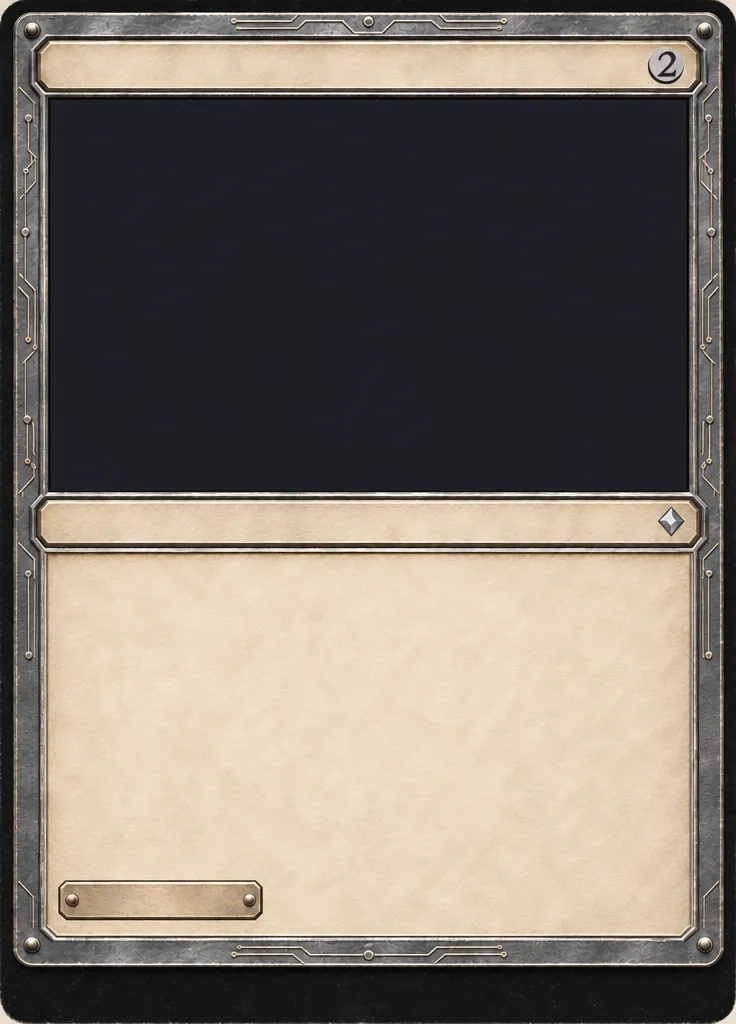
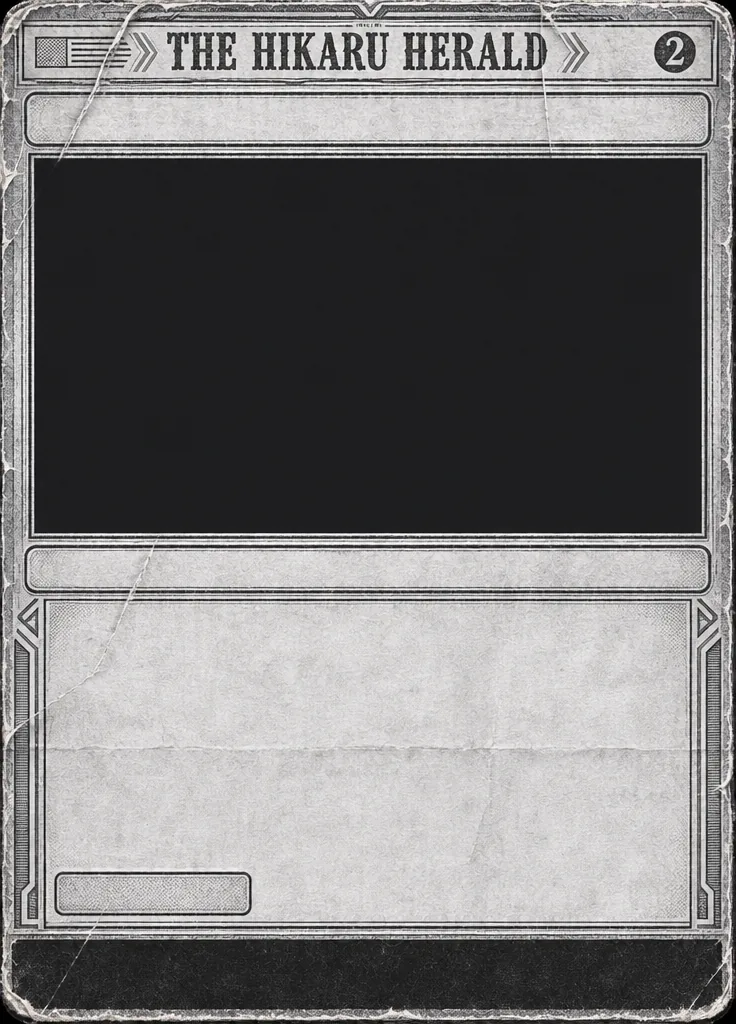
feat: newspaper showcase frame on every card, Hikaru drawn with natural proportions
This commit was detailed with Claude (Claude Code). Piece by piece:

- site/img/frame-*.webp: the seven Magic frames redone in the vintage "breaking
  news" newspaper showcase style, after seven real Magic cards in that style that
  Hikaru sent as references. Higgsfield (GPT Image 2.6) made Hikaru's frame from
  the blank template and the references, then each project frame from its own
  template, Hikaru's frame and one or two references of its colour: gold, red,
  green, black, ivory, slate blue and silver. The masthead reads "The Hikaru
  Herald", an original name, with the card's mana cost on its right.
- site/img/hikaru-art.webp, assets/hikaru-card-art.png: Hikaru as an ink
  illustration in the same newspaper style, gold duotone, arms crossed on a Sao
  Paulo street, about seven and a half heads tall, so the head is no longer
  oversized. Made from his own photos.
- site/styles.css: every card's boxes measured again for the new layout
  (headline bar under the masthead, wider art window, collector strip); the
  name is centred, upper case, in a slab serif like a newspaper headline;
  Hikaru's P/T box moved; his text is back to 12px since the box has more room;
  the project pictures print as a duotone in the card's colour (--tint).
- design/magic-frame/template.py: draws the newspaper layout.
- prompts.md, ADR 0001, GLOSSARY, README: the new style, its job ids and why the
  text stayed live.
[…]

diff --git a/site/styles.css b/site/styles.css
@@ -431,33 +431,34 @@ html.tcg .sheen {
 }
 html.tcg .tcg-card.dragging { cursor: grabbing; -webkit-user-select: none; user-select: none; }
 
-/* ---- Magic frame (docs/adr/0001): Hikaru's card and the project cards in TCG mode. The frame is an image made from
+/* ---- Magic frame (docs/adr/0001): Hikaru's card and the project cards in TCG mode. The frame (a newspaper showcase) is an image made from
    design/magic-frame; the live text sits in its boxes. Each slot gives its frame's boxes, measured in card px (460x642):
-   --t0/--t1 title bar, --tr where the mana gems start, --al/--a0/--ar/--a1 art window, --y0/--y1/--yr type line, --x text
+   --t0/--t1 title bar, --tr the headline bar's right end, --al/--a0/--ar/--a1 art window, --y0/--y1/--yr type line, --x text
    box top, --pb/--bh plaque row, --bw plaque width, --b1..--b4 plaque lefts, --c0/--c1 collector line ---- */
-[data-card="hikaru"] { --t0: 22px; --t1: 53px; --tr: 315px; --al: 25px; --a0: 60px; --ar: 435px; --a1: 349px; --y0: 358px; --y1: 385px; --yr: 420px; --x: 393px; --pb: 544px; --bh: 27px; --bw: 76px; --b1: 34px; --b2: 118px; --b3: 202px; --b4: 283px; --c0: 607px; --c1: 642px; --no: 'HKR • 0001'; --frame: url('img/frame-hikaru.webp'); }
-[data-card="portfolio"] { --t0: 25px; --t1: 55px; --tr: 364px; --al: 28px; --a0: 61px; --ar: 433px; --a1: 350px; --y0: 358px; --y1: 384px; --yr: 406px; --x: 394px; --pb: 545px; --bh: 26px; --bw: 124px; --b1: 34px; --b2: 166px; --c0: 607px; --c1: 639px; --no: 'HKR • 0002'; --frame: url('img/frame-portfolio.webp'); }
-[data-card="aquasense"] { --t0: 23px; --t1: 50px; --tr: 391px; --al: 24px; --a0: 57px; --ar: 436px; --a1: 352px; --y0: 361px; --y1: 383px; --yr: 380px; --x: 394px; --pb: 555px; --bh: 27px; --bw: 131px; --b1: 33px; --b2: 170px; --c0: 606px; --c1: 639px; --no: 'HKR • 0003'; --frame: url('img/frame-aquasense.webp'); }
-[data-card="ecos"] { --t0: 28px; --t1: 56px; --tr: 408px; --al: 29px; --a0: 61px; --ar: 431px; --a1: 331px; --y0: 339px; --y1: 366px; --yr: 411px; --x: 373px; --pb: 553px; --bh: 26px; --bw: 127px; --b1: 34px; --c0: 602px; --c1: 638px; --no: 'HKR • 0004'; --frame: url('img/frame-ecos.webp'); }
-[data-card="ferrovia"] { --t0: 26px; --t1: 53px; --tr: 383px; --al: 26px; --a0: 60px; --ar: 434px; --a1: 315px; --y0: 322px; --y1: 347px; --yr: 413px; --x: 357px; --pb: 541px; --bh: 28px; --bw: 127px; --b1: 33px; --c0: 604px; --c1: 640px; --no: 'HKR • 0005'; --frame: url('img/frame-ferrovia.webp'); }
-[data-card="fabio"] { --t0: 28px; --t1: 55px; --tr: 387px; --al: 28px; --a0: 62px; --ar: 432px; --a1: 351px; --y0: 359px; --y1: 383px; --yr: 417px; --x: 392px; --pb: 557px; --bh: 23px; --bw: 127px; --b1: 36px; --c0: 603px; --c1: 640px; --no: 'HKR • 0006'; --frame: url('img/frame-fabio.webp'); }
-[data-card="cofre"] { --t0: 26px; --t1: 55px; --tr: 405px; --al: 31px; --a0: 60px; --ar: 431px; --a1: 308px; --y0: 314px; --y1: 340px; --yr: 412px; --x: 348px; --pb: 552px; --bh: 24px; --bw: 127px; --b1: 37px; --c0: 606px; --c1: 641px; --no: 'HKR • 0007'; --frame: url('img/frame-cofre.webp'); }
+[data-card="hikaru"] { --t0: 60px; --t1: 92px; --tr: 438px; --al: 23px; --a0: 101px; --ar: 436px; --a1: 333px; --y0: 344px; --y1: 370px; --yr: 430px; --x: 377px; --pb: 547px; --bh: 25px; --bw: 71px; --b1: 35px; --b2: 113px; --b3: 193px; --b4: 273px; --c0: 590px; --c1: 634px; --no: 'HKR • 0001'; --frame: url('img/frame-hikaru.webp'); }
+[data-card="portfolio"] { --tint: #d9826a; --t0: 61px; --t1: 91px; --tr: 438px; --al: 23px; --a0: 100px; --ar: 436px; --a1: 334px; --y0: 344px; --y1: 370px; --yr: 430px; --x: 377px; --pb: 547px; --bh: 25px; --bw: 118px; --b1: 34px; --b2: 160px; --c0: 590px; --c1: 632px; --no: 'HKR • 0002'; --frame: url('img/frame-portfolio.webp'); }
+[data-card="aquasense"] { --tint: #a9c27a; --t0: 61px; --t1: 90px; --tr: 438px; --al: 22px; --a0: 102px; --ar: 436px; --a1: 332px; --y0: 342px; --y1: 369px; --yr: 430px; --x: 377px; --pb: 548px; --bh: 24px; --bw: 121px; --b1: 35px; --b2: 166px; --c0: 590px; --c1: 632px; --no: 'HKR • 0003'; --frame: url('img/frame-aquasense.webp'); }
+[data-card="ecos"] { --tint: #c9c9c9; --t0: 63px; --t1: 92px; --tr: 438px; --al: 23px; --a0: 103px; --ar: 436px; --a1: 335px; --y0: 346px; --y1: 372px; --yr: 430px; --x: 381px; --pb: 556px; --bh: 24px; --bw: 129px; --b1: 35px; --c0: 595px; --c1: 633px; --no: 'HKR • 0004'; --frame: url('img/frame-ecos.webp'); }
+[data-card="ferrovia"] { --tint: #e0b48f; --t0: 61px; --t1: 90px; --tr: 438px; --al: 24px; --a0: 100px; --ar: 434px; --a1: 326px; --y0: 335px; --y1: 361px; --yr: 430px; --x: 372px; --pb: 552px; --bh: 26px; --bw: 121px; --b1: 35px; --c0: 595px; --c1: 634px; --no: 'HKR • 0005'; --frame: url('img/frame-ferrovia.webp'); }
+[data-card="fabio"] { --tint: #8fa9cf; --t0: 62px; --t1: 91px; --tr: 438px; --al: 26px; --a0: 101px; --ar: 433px; --a1: 333px; --y0: 344px; --y1: 369px; --yr: 430px; --x: 377px; --pb: 549px; --bh: 24px; --bw: 123px; --b1: 36px; --c0: 591px; --c1: 631px; --no: 'HKR • 0006'; --frame: url('img/frame-fabio.webp'); }
+[data-card="cofre"] { --tint: #bdbdbd; --t0: 60px; --t1: 90px; --tr: 438px; --al: 22px; --a0: 100px; --ar: 437px; --a1: 333px; --y0: 344px; --y1: 370px; --yr: 430px; --x: 377px; --pb: 547px; --bh: 26px; --bw: 121px; --b1: 35px; --c0: 590px; --c1: 632px; --no: 'HKR • 0007'; --frame: url('img/frame-cofre.webp'); }
 
 /* the text box's content flows inside the card's padding (the text box minus the plaque row); everything else is placed */
 html.tcg .card.mf {
   --fs: 12.5px; --ink: #241a10; --serif: 'Palatino Linotype', 'Book Antiqua', Palatino, 'Noto Serif', Georgia, serif;
+  --slab: Rockwell, 'Rockwell Nova', 'Roboto Slab', 'Courier New', Georgia, serif;
   padding: calc(var(--x) + 8px) 36px calc(642px - var(--pb) + 6px);
   gap: 5px; background: #111 var(--frame) 0 0 / 100% 100% no-repeat;
   color: var(--ink); font-family: var(--serif);
 }
-html.tcg:lang(ja) .card.mf { --serif: 'Yu Mincho', 'YuMincho', 'Hiragino Mincho ProN', 'Noto Serif JP', serif; }
+html.tcg:lang(ja) .card.mf { --serif: 'Yu Mincho', 'YuMincho', 'Hiragino Mincho ProN', 'Noto Serif JP', serif; --slab: var(--serif); }
 html.tcg .card.mf::before { content: none; }
 html.tcg .card.mf::after { content: none; }
 html.tcg .card.mf :is(.name, .art, .hud, .role, .foot) { position: absolute; margin: 0; }
 html.tcg .card.mf .name {
-  top: var(--t0); height: calc(var(--t1) - var(--t0)); left: 34px; right: calc(460px - var(--tr) + 6px);
-  font: 700 19px/calc(var(--t1) - var(--t0)) var(--serif); font-stretch: normal; font-variation-settings: normal;
-  letter-spacing: .02em; text-align: left; color: var(--ink); overflow: hidden; text-overflow: ellipsis;
+  top: var(--t0); height: calc(var(--t1) - var(--t0)); left: 32px; right: calc(460px - var(--tr) + 10px);
+  font: 700 19px/calc(var(--t1) - var(--t0)) var(--slab); font-stretch: normal; font-variation-settings: normal;
+  letter-spacing: .04em; text-transform: uppercase; text-align: center; color: var(--ink); overflow: hidden; text-overflow: ellipsis;
 }
 html.tcg .card.mf h1.name .w { display: inline; }
 html.tcg .card.mf :is(.art, .hud) {
@@ -465,6 +466,10 @@ html.tcg .card.mf :is(.art, .hud) {
 }
 /* Hikaru's art window: a wide crop of his portrait; the round photo stays in the page (its alt) but is not painted */
 html.tcg .card.mf .hud { background: url('img/hikaru-art.webp') 50% 0 / cover; }
+/* the project art printed like the newspaper's: grey ink under the card's colour (--tint), as a duotone */
+html.tcg .card.mf .art { overflow: hidden; background: #fff; }
+html.tcg .card.mf .art img { filter: grayscale(1) contrast(1.15) brightness(1.08); }
+html.tcg .card.mf .art::after { content: ''; position: absolute; inset: 0; background: var(--tint); mix-blend-mode: multiply; pointer-events: none; }
 html.tcg .card.mf .hud :is(i, .dot) { display: none; }
 html.tcg .card.mf .circ { opacity: 0; }
 html.tcg .card.mf .role {
@@ -511,15 +516,15 @@ html.tcg .card.mf .foot::before { content: var(--no); }
 html.tcg .card.mf .foot > :last-child { margin-left: auto; }
 html.tcg .card.mf .open { color: #cfc6b0; }
 /* Hikaru's card holds the most text in the same box */
-html.tcg [data-card="hikaru"] .card.mf { --fs: 11.5px; }
+html.tcg [data-card="hikaru"] .card.mf { --fs: 12px; }
 html.tcg .card.mf > * { flex-shrink: 0; }
 /* Focus and Speaks side by side, Base under them: one line less in the text box */
 html.tcg [data-card="hikaru"] .card.mf .panel { grid-template-columns: auto auto auto 1fr; column-gap: 6px; }
 html.tcg [data-card="hikaru"] .card.mf .panel dd:nth-of-type(1) { margin-right: 12px; }
 /* Hikaru's power/toughness box */
 html.tcg [data-card="hikaru"] .card.mf::after {
-  content: '*/*'; position: absolute; z-index: 1; inset: 569px auto auto 362px; width: 81px; height: 40px;
-  background: none; opacity: 1; font: 700 19px/40px var(--serif); text-align: center; color: var(--ink);
+  content: '*/*'; position: absolute; z-index: 1; inset: 552px auto auto 352px; width: 90px; height: 34px;
+  background: none; opacity: 1; font: 700 19px/34px var(--slab); text-align: center; color: var(--ink);
 }
 
 /* critters walk in the lane above the ground, in both modes; DOM order puts them over .ground and under

diff --git a/design/magic-frame/template.py b/design/magic-frame/template.py
@@ -8,16 +8,19 @@ from PIL import Image, ImageDraw, ImageFont
 W, H = 736, 1024          # Higgsfield size (multiples of 16), the card's 460x642 proportion
 S = W / 460               # card px -> template px
 # the geometry, in card px (460x642); keep in sync with the .mframe rules in site/styles.css
-# proportions of a real Magic card (modern frame): title bar at 4-9 % of the height, art window 10-55 % (about 1.4:1),
-# type line 56-61 %, text box 62-91 %, the power/toughness box over the text box's bottom right corner
+# the newspaper showcase layout of a real Magic card: a masthead with the mana cost on top, the headline (title) bar under
+# it, the art window (about 1.6:1), the type line, the text box, the power/toughness box over the text box's bottom right
+# corner, and a black collector strip along the bottom
 GEO = {
-    'title': (22, 24, 438, 58),
-    'art': (30, 64, 430, 350),
-    'type': (22, 356, 438, 388),
-    'text': (28, 394, 432, 586),
-    'pt': (354, 570, 440, 604),   # Hikaru's card only
-    'collector': (22, 606, 438, 634),
+    'masthead': (14, 12, 446, 50),
+    'title': (22, 56, 438, 88),
+    'art': (26, 94, 434, 352),
+    'type': (22, 358, 438, 386),
+    'text': (26, 392, 434, 596),
+    'pt': (356, 568, 440, 600),   # Hikaru's card only
+    'collector': (14, 604, 446, 634),
 }
+MASTHEAD = 'THE HIKARU HERALD'  # an original paper name (the real cards' masthead is Wizards of the Coast's)
 CARDS = {
     'hikaru': dict(color='gold', name='Hikaru Ogasawara', mana='W U B R G', pt='*/*',
                    type='Legendary Creature — Computer Engineering Student · Ibmec SP · 21',
@@ -60,13 +63,17 @@ def draw(card, blank):
     d = ImageDraw.Draw(im)
     d.rounded_rectangle((0, 0, W - 1, H - 1), radius=round(18 * S), fill=(18, 16, 14))       # the black border
     d.rounded_rectangle((round(10 * S), round(10 * S), W - round(10 * S), round(602 * S)), radius=round(8 * S), fill=col)  # frame
+    x0, y0, x1, y1 = box('masthead')
+    d.rectangle(box('masthead'), fill=(236, 228, 206), outline=(40, 34, 28), width=2)
+    d.text(((x0 + x1) / 2 - 20, (y0 + y1) / 2), MASTHEAD, font=font(22, True), fill=(20, 16, 12), anchor='mm')
     for k in ('title', 'type'):
         d.rounded_rectangle(box(k), radius=round(6 * S), fill=(236, 228, 206), outline=(40, 34, 28), width=2)
     d.rectangle(box('art'), fill=(40, 40, 44), outline=(20, 18, 16), width=3)
     d.rectangle(box('text'), fill=(240, 232, 212), outline=(40, 34, 28), width=2)
     if c.get('pt'): d.rounded_rectangle(box('pt'), radius=round(6 * S), fill=(236, 228, 206), outline=(40, 34, 28), width=2)
     x0, y0, x1, y1 = box('title')
-    if not blank: d.text((x0 + 10, (y0 + y1) / 2), c['name'], font=font(20, True), fill=(20, 16, 12), anchor='lm')
+    if not blank: d.text(((x0 + x1) / 2, (y0 + y1) / 2), c['name'].upper(), font=font(20, True), fill=(20, 16, 12), anchor='mm')
+    x0, y0, x1, y1 = box('masthead')
     if not blank: d.text((x1 - 10, (y0 + y1) / 2), c['mana'], font=font(13, True), fill=(20, 16, 12), anchor='rm')
     x0, y0, x1, y1 = box('art')
     if not blank: d.text(((x0 + x1) / 2, (y0 + y1) / 2), 'ART', font=font(18), fill=(120, 120, 128), anchor='mm')

diff --git a/design/magic-frame/prompts.md b/design/magic-frame/prompts.md
@@ -1,5 +1,37 @@
 # Magic frame prompts (Higgsfield, GPT Image 2.6, 736x1024, quality high, 1k)
 
+## Current: the newspaper showcase (2026-11)
+
+The frames now follow seven real Magic cards in the vintage "breaking news" newspaper showcase style (sent by Hikaru as
+references; not kept in the repo). `template.py` draws that layout: masthead with the mana cost on the right, headline
+bar, art window, type line, text box, P/T box (Hikaru only), black collector strip. The masthead reads THE HIKARU HERALD,
+an original name. Hikaru's frame came first (blank template + the seven references); every project frame then used its
+blank template, Hikaru's frame as the series reference and one or two references of its colour:
+
+```
+Dress image 1 as an empty trading card frame in exactly the vintage 'breaking news' newspaper style of image 2 (same aged
+newsprint with creases and worn edges, same printed rules, ornaments, masthead lettering THE HIKARU HERALD, same empty boxes
+and black collector strip), but in the colour of images 3 and 4: {COLOUR}. Image 1 is a strict layout [...]. At the right end
+of the masthead: {MANA}. Do not copy any name, logo or set symbol from the references [...]. Every other area is empty.
+```
+
+| card | colour | frame job |
+|---|---|---|
+| hikaru | gold and sepia | 489e7946-3bcd-477d-9bab-da1306721bc7 (came back square; cropped to the card) |
+| portfolio | brick red, blue accents | 2590e3b4-723d-4625-a622-b33939c31966 |
+| aquasense | moss green, teal accents | 03d8268f-8439-4e11-8567-58a157874002 (redone from 26e4ace8, which had 3 plaques) |
+| ecos | black and grey | 66d083cd-3c73-4766-8d22-42edf10f4fde |
+| ferrovia | ivory, red accents | 0e59167b-5ed9-4f08-9b14-0e0dee71967a |
+| fabio | slate blue and indigo | 10ef2342-9228-46aa-a190-4d4b41149ad5 |
+| cofre | silver grey | f4e9b624-346c-4d44-8f02-e9139166101c |
+
+Hikaru's art (`assets/hikaru-card-art.png`, job f123dc42-ba4e-498f-92fd-c3dc9a18d695, from e4b6bfa2-ae61-4ce1-b076-d5768525255c)
+is an ink illustration in the same newspaper style, gold duotone, drawn from his photos with natural proportions (about
+seven and a half heads), arms crossed on a São Paulo street; the site crops it around him. The project cards keep their
+own pictures, printed as a duotone in the card's colour by CSS (`--tint`).
+
+Everything below is the history of the earlier, classic frame.
+
 References: image 1 = the card's geometry template (`template.py <card>`), image 2 = `style-reference.png` (the front of
 Hikaru's original Magic business card, the "book cover" classic frame). One variant per card. See docs/adr/0001.
 
@@ -77,7 +109,7 @@ ECOS, Ferrovia and IoT Safe came back with a somewhat shorter art window (about 
 own measured boxes, so they are kept. The `-full.webp` references above are from the first geometry: they still show the
 typography, not the proportions.
 
-## Hikaru's art window
+## Hikaru's art window (classic frame, replaced)
 
 `site/img/hikaru-art.webp` comes from `assets/hikaru-card-art.png`, job 01a8dc6c-f229-4e3e-9d12-5f79ece5852b (1024x720,
 the art window's 1.42:1): a studio portrait in a stronger, still informal pose (three-quarter turn, arms crossed, framed

diff --git a/docs/adr/0001-magic-frame-image-with-live-text.md b/docs/adr/0001-magic-frame-image-with-live-text.md
@@ -3,3 +3,5 @@
 In TCG mode, Hikaru's card and the project cards wear a Magic frame whose whole finish (metal, ornaments, typography) is designed by Higgsfield, but the frame used on the site is an image with **empty** text areas, and every word on the card stays live HTML laid over it. Each card is generated twice from one geometry template: first complete, with placeholder text, as the design and typography reference; then the same design with the text areas blank, which is the image the site uses. The HTML is matched by hand to the reference's typography with the closest free fonts.
 
 We rejected baking the text into the image (one image per card per language): the card must switch between Portuguese, English and Japanese, its contact and project links must be real, accessible buttons, and any text change would mean generating the art again. Plain mode keeps its own look; only TCG mode wears the frame. Only Hikaru's card and the project cards get it: the Magic business cards, single Magic cards and card groups are already finished images and stay as they are.
+
+The look itself changed once (2026-11): the classic "book cover" frame was replaced by a vintage newspaper showcase frame, after real Magic cards in that style. The decision above held: only the frame images, their measured boxes in `site/styles.css` and Hikaru's art were redone, and every word stayed live text. The masthead carries an original name, "The Hikaru Herald", not the real cards' one.

diff --git a/README.md b/README.md
@@ -15,7 +15,7 @@ runtime dependencies. Live at https://hikaru-card.vercel.app/.
     Drag to turn it, **Flip** to see its back, **Reset** to straighten it. Scrolling leafs through the deck: the top card
     arcs away onto the passed pile and the next swings in from under it (`tcg.js`, `deck.js`, `tcg-dom.js`). Your choice is
     saved in `localStorage`. In this mode Hikaru's card and the project cards wear a **Magic frame**: a frame image per
-    card, in its own colours, generated with Higgsfield from one geometry (`design/magic-frame`), with every word still
+    card in a vintage newspaper style ("The Hikaru Herald"), in its own colours, generated with Higgsfield from one geometry (`design/magic-frame`), with every word still
     live text and every button a real link laid on the frame's plaques (see `docs/adr/0001`).
 - **Card groups**: three Magic cards that share one place in the deck, shown as a pack with a ×3 badge. Click it to open
   the three as a fan, like a hand of cards.

diff --git a/GLOSSARY.md b/GLOSSARY.md
@@ -42,7 +42,7 @@ The scrolling way of browsing, one card per gesture, the default on touch screen
 _Avoid_: Scroll mode, mobile mode
 
 **Magic frame**:
-The Magic: The Gathering–style card front (border, title bar, art window, type line, text box, collector line) that replaces the look of Hikaru's card and of every project card, present and future, in TCG mode. The card keeps all of its content.
+The Magic: The Gathering–style card front in the vintage newspaper showcase style (masthead with the mana cost, headline bar, art window, type line, text box, collector strip) that replaces the look of Hikaru's card and of every project card, present and future, in TCG mode. The card keeps all of its content.
 _Avoid_: Skin, theme
 
 **Color identity**:
